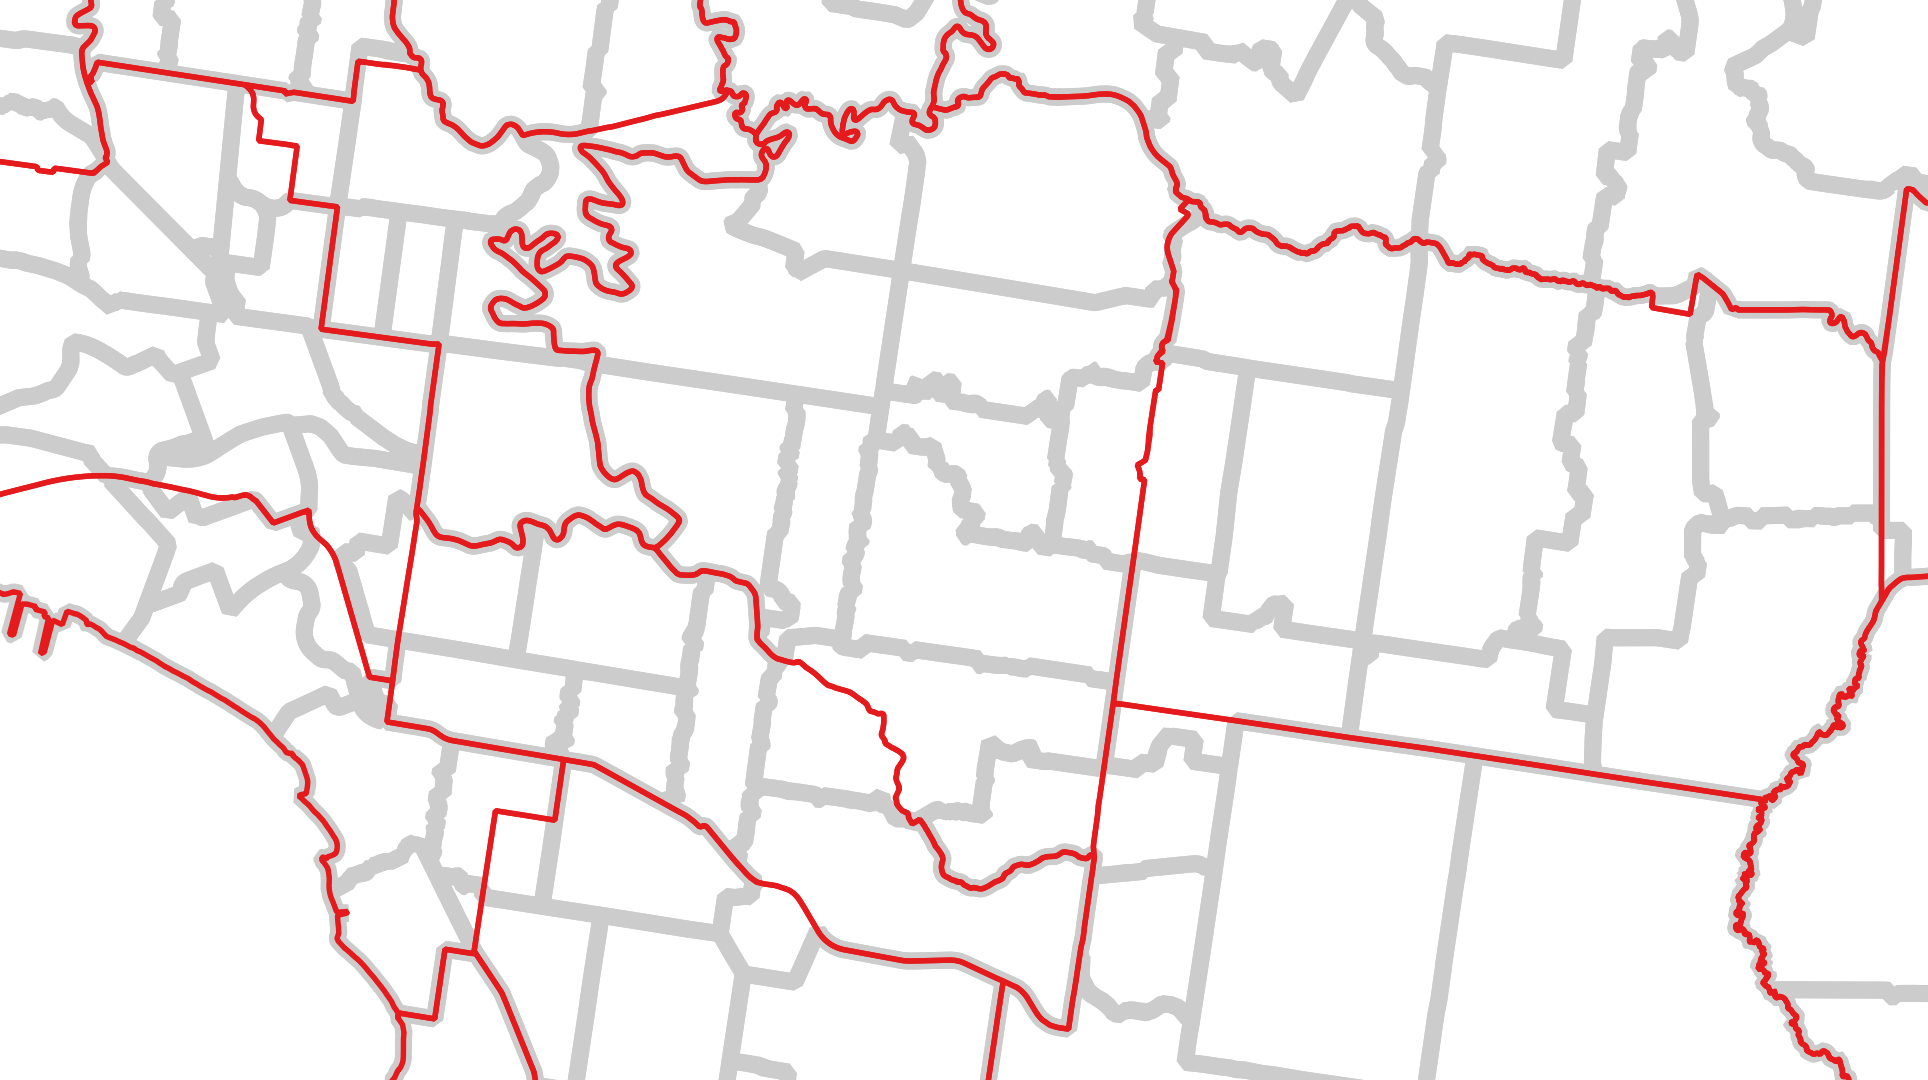
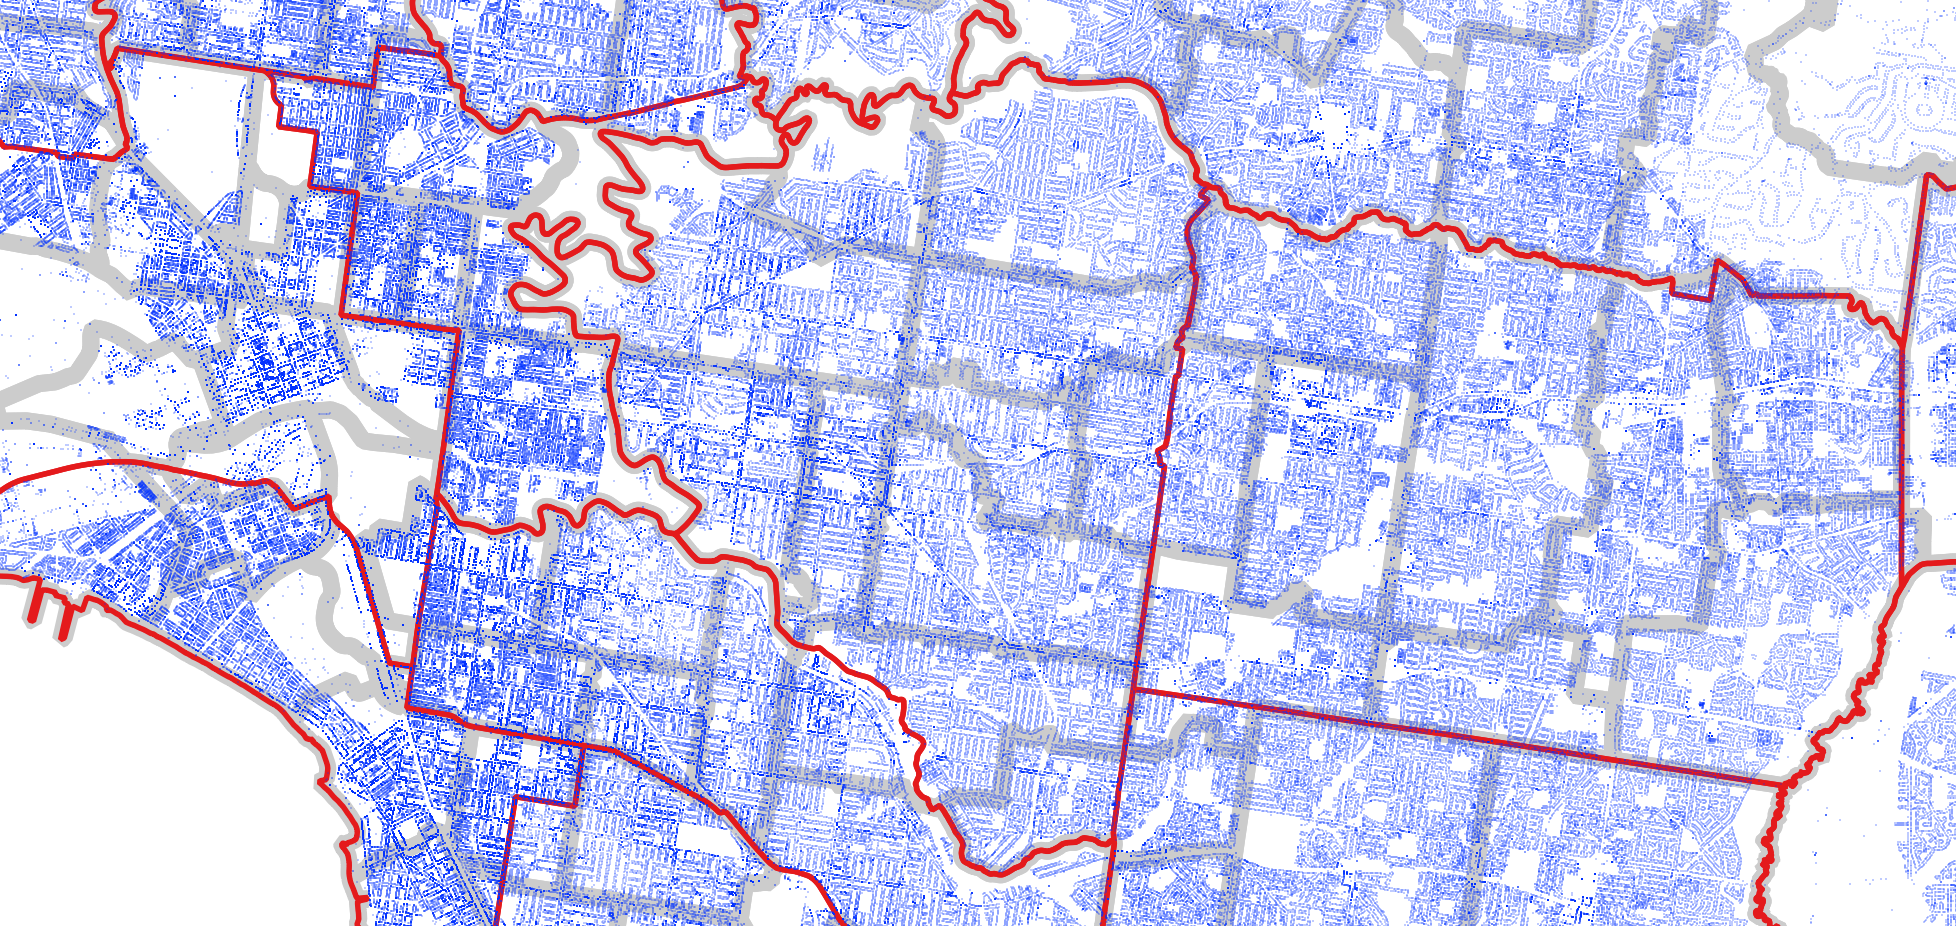
adding notes

diff --git a/README.md b/README.md
@@ -23,6 +23,11 @@ The concordance file is generated using this approach:
 3. Aggregate all residential address by the _**from**_ boundary and the _**to**_ boundary
 4. Determine the % overlap of addresses between both boundary types for all boundary combinations
 
+![pc_vs_lga.png](https://github.com/iag-geo/concord/blob/main/pc_vs_lga.png "ABS 2016 Postcodes (grey) vs LGAs (red) with respect to addresses (blue)")
+
+ABS 2016 Postcodes (grey) vs LGAs (red) with respect to addresses (blue)
+
+
 ## Concordances
 
 Below are the average concordances between 2 boundary types, weighted by residential address counts
@@ -47,9 +52,6 @@ A high average concordance indicates your data can be converted to the new bound
 | geoscape 202202 postcode | abs 2016 lga             |         93% |
 | geoscape 202202 postcode | geoscape 202202 lga      |         93% |
 
-![pc_vs_lga.png](https://github.com/iag-geo/concord/blob/main/pc_vs_lga.png "ABS 2016 Postcodes (grey) vs LGAs (red)")
-
-ABS 2016 Postcodes (grey) vs LGAs (red)
 
 notes:
  - the benefits of using Geoscape Buildings is minimal due to ~2.3m addresses not having a planning zone
@@ -58,6 +60,4 @@ notes:
 
 
 
-
-TODO: _**Insert useful image here**_
 
